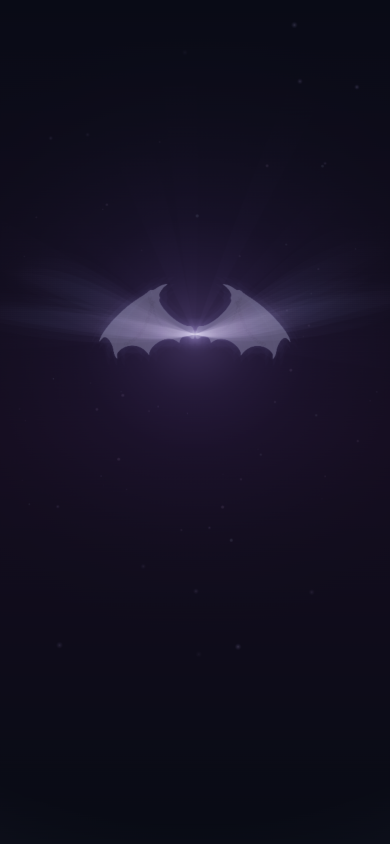
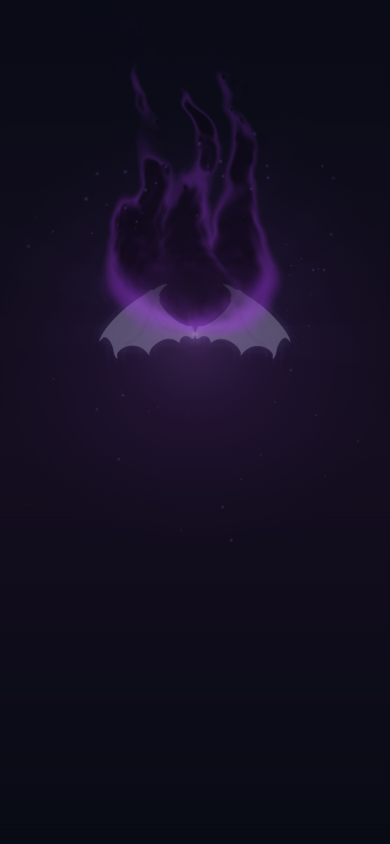
Update website

diff --git a/js/dark-awakening.js b/js/dark-awakening.js
@@ -1,102 +1,118 @@
-/* Dark awakening: a light-consuming core opens into the demon wing root.
- * Pure host-clock sampling keeps pause, hidden tabs and replay deterministic. */
+/* Dark opening: illuminated surroundings are consumed by an opaque core,
+ * then emit black-violet fire. All motion samples the host's active clock. */
 (function(root){
  'use strict';
  const TAU=Math.PI*2,clamp=v=>Math.max(0,Math.min(1,v));
  const smooth=v=>{v=clamp(v);return v*v*(3-2*v);};
  const seed=n=>{const v=Math.sin(n*127.1+83.7)*43758.5453;return v-Math.floor(v);};
+ let flameRenderer=null;
  function sample(elapsed){
   const time=Math.max(0,Number.isFinite(elapsed)?elapsed:0);
-  const charge=smooth(time/.45),opening=smooth((time-1.05)/.85);
-  const handoff=smooth((time-1.9)/.8),live=1-handoff;
-  return {time,charge,opening,handoff,live,
-   phase:time<.45?'暗核吞光':time<1.05?'闇流凝聚':time<1.9?'魔力覺醒':'魔翼顯現'};
+  const charge=smooth(time/.32),absorb=smooth((time-.30)/1.50);
+  const illumination=charge*(1-smooth((time-.50)/1.30));
+  const flame=smooth((time-1.90)/.38),handoff=smooth((time-2.7)/.8);
+  return {time,charge,absorb,illumination,flame,opening:flame,handoff,live:1-handoff,
+   phase:time<.32?'光霧浮現':time<1.90?'黑洞吞光':time<2.7?'黑焰迸發':'魔翼顯現'};
  }
+ function prepare(){
+  if(flameRenderer)return !flameRenderer.error;
+  if(!root.ElementMaterialRenderer||!root.ElementMaterialSources?.fire)return false;
+  // Reuse the approved volumetric flame, including its flowing tongue tips,
+  // gas-driven formation and rounded fuel bed. Only its emitted color changes.
+  root.ElementMaterialSources.darkAwakeningFlame=root.ElementMaterialSources.fire.replace('vec4 material(', 'vec4 flameVolume(')+
+   'vec4 material(vec2 p,float t){vec4 f=flameVolume(p,3.+t*2.5);float heat=clamp(max(f.r,max(f.g,f.b)),0.,1.);'+
+   'vec3 violet=mix(vec3(.12,.014,.27),vec3(.66,.22,.95),smoothstep(.10,.66,heat));'+
+   'float dense=smoothstep(.72,.96,heat);violet=mix(violet,vec3(.022,.008,.035),dense*.96);'+
+   'return vec4(violet,f.a);}';
+  flameRenderer=new root.ElementMaterialRenderer();flameRenderer.element='darkAwakeningFlame';
+  return flameRenderer.init()&&!!flameRenderer.compile('darkAwakeningFlame');
+ }
+ function dispose(){flameRenderer?.dispose();flameRenderer=null;}
  function glow(ctx,x,y,radius,stops,alpha=1){
   if(radius<=0||alpha<=0)return;
-  const gradient=ctx.createRadialGradient(x,y,0,x,y,radius);
-  for(const [at,color]of stops)gradient.addColorStop(at,color);
-  ctx.globalAlpha=alpha;ctx.fillStyle=gradient;
-  ctx.fillRect(x-radius,y-radius,radius*2,radius*2);
+  const g=ctx.createRadialGradient(x,y,0,x,y,radius);
+  for(const [at,color]of stops)g.addColorStop(at,color);
+  ctx.globalAlpha=Math.min(1,alpha);ctx.fillStyle=g;ctx.fillRect(x-radius,y-radius,radius*2,radius*2);
+ }
+ function infall(index,time,width,height,cx,cy,cloud=false){
+  const depth=seed(index+217),angle=index*2.399963+seed(index+46)*.3;
+  const start=.22+seed(index+81)*.68,duration=.52+seed(index+124)*.42;
+  const q=clamp((time-start)/duration),turn=q*q*(1.3+depth*.6);
+  const dx=Math.cos(angle)*width*(.44+depth*.40),dy=Math.sin(angle)*height*(.40+depth*.32);
+  const r=Math.hypot(dx,dy),base=Math.atan2(dy,dx),unit=Math.min(width,height);
+  const horizon=unit*.074,distance=horizon+r*Math.pow(1-q*q,.83);
+  return {x:cx+Math.cos(base+turn)*distance,y:cy+Math.sin(base+turn)*distance,
+   alpha:smooth(time/.24)*(1-smooth((q-.88)/.12)),q,depth,
+   size:cloud?unit*(.13+depth*.19):(.75+depth*2.5)*Math.max(.7,unit/390)};
  }
  function draw(ctx,{width,height,elapsed=0,target,layer='all'}={}){
   if(!ctx||!(width>0&&height>0))return;
   const s=sample(elapsed);if(s.live<=0)return;
   const unit=Math.min(width,height),cx=target?.x??width*.5,cy=target?.y??height*.4;
   const reach=Math.hypot(Math.max(cx,width-cx),Math.max(cy,height-cy));
-  const chargeLight=smooth((s.time-.18)/.7),pulse=1+Math.sin(s.time*11)*.045+Math.sin(s.time*19)*.025;
   ctx.save();ctx.globalCompositeOperation='source-over';
   if(layer!=='foreground'){
-   // Match the existing wing renderer's backdrop before it fades in. This
-   // prevents the portal from reappearing between two translucent layers.
    const bg=ctx.createLinearGradient(0,0,0,height);
    bg.addColorStop(0,'#090b16');bg.addColorStop(.52,'#150d20');bg.addColorStop(1,'#080b14');
-   ctx.globalAlpha=layer==='background'?1:smooth(s.time/.24);ctx.fillStyle=bg;ctx.fillRect(0,0,width,height);
-   glow(ctx,cx,cy,unit*(.32+.5*s.opening),[[0,'#58438188'],[.38,'#30245155'],[1,'#17112300']],(.45+chargeLight*.35)*(layer==='background'?1:s.live));
+   ctx.globalAlpha=layer==='background'?1:smooth(s.time/.20);ctx.fillStyle=bg;ctx.fillRect(0,0,width,height);
+   // The luminous atmosphere physically contracts, exposing dark space from
+   // the edges inward. The black core remains in front of the illuminated field.
+   const lightRadius=reach*(1.48-1.35*s.absorb);
+   glow(ctx,cx,cy,lightRadius,[[0,'#a2abc7e8'],[.34,'#858eaff0'],[.7,'#526580d0'],[1,'#263c5800']],s.illumination*.84);
+   ctx.globalCompositeOperation='screen';
+   for(let i=0;i<30;i++){
+    const p=infall(i+340,s.time,width,height,cx,cy,true);
+    glow(ctx,p.x,p.y,p.size*(1-p.q*.64),[[0,'#a5b5db45'],[.35,'#92a0c42c'],[1,'#5c6e9c00']],p.alpha*.72);
+   }
+   glow(ctx,cx,cy,unit*.54,[[0,'#7b379879'],[.4,'#54227834'],[1,'#25103a00']],s.flame*(layer==='background'?1:s.live));
   }
   if(layer==='background'){ctx.restore();return;}
-  // A compact, soft void rather than a drawn circle or a seal. Separate
-  // lobes of reflected purple light move around its uneven silhouette.
-  const coreRadius=unit*(.022+.036*s.charge)*(1-.58*s.opening);
+  // Heads accelerate along a curved path; their tails sample earlier points
+  // on that same path. They disappear into the horizon, with no looping reset.
   ctx.globalCompositeOperation='screen';
-  for(let i=0;i<7;i++){
-   const angle=i*TAU/7+s.time*(.27+seed(i)*.5),r=coreRadius*(1.2+seed(i+11)*.5);
-   glow(ctx,cx+Math.cos(angle)*r,cy+Math.sin(angle)*r*.78,coreRadius*(1.5+seed(i+34)),
-    [[0,'#8e71cd55'],[.3,'#5747a138'],[1,'#3f397c00']],chargeLight*(1-s.opening)*s.live);
-  }
-  ctx.globalCompositeOperation='source-over';
-  glow(ctx,cx,cy,coreRadius*2.3,[[0,'#02030aff'],[.35,'#03040df5'],[.65,'#050611aa'],[1,'#05061100']],s.charge*(1-s.opening)*s.live);
-  // Curved volumes inhale tangentially. At release, the same continuous
-  // paths stretch into two broad shoulders in the direction of the wings.
-  for(let i=0;i<12;i++){
-   const side=i%2?-1:1,k=seed(i+52),rise=seed(i+77),gate=smooth((s.time-.24-k*.18)/.4)*s.live;
-   if(gate<=0)continue;
-   const turn=s.time*(.8+k*.4)+i*.43;
-   const span=unit*(.12+k*.18+s.opening*(.28+k*.2));
-   const endX=side*span,endY=-unit*(.02+rise*.21)*(.6+s.opening*.4);
-   const curl=unit*(.025+.055*Math.sin(turn))*(1-s.opening);
-   const breadth=unit*(.008+rise*.016)*(1+s.opening*1.6);
-   ctx.save();ctx.translate(cx,cy);ctx.globalCompositeOperation='screen';
-   const g=ctx.createLinearGradient(0,0,endX,endY);
-   g.addColorStop(0,'#d5c7ff70');g.addColorStop(.2,'#8b75b94a');g.addColorStop(.62,'#50639126');g.addColorStop(1,'#6c598a00');
-   ctx.fillStyle=g;
-   for(const [spread,opacity]of [[3.2,.16],[1.6,.23],[.7,.24]]){
-    const b=breadth*spread;ctx.globalAlpha=gate*opacity*(.7+.3*Math.sin(turn*.8)**2);
-    ctx.beginPath();ctx.moveTo(0,0);
-    ctx.bezierCurveTo(side*span*.25,-unit*.04-curl,side*span*.64,endY-b,endX,endY);
-    ctx.bezierCurveTo(side*span*.68,endY+b,side*span*.2,unit*.04+curl,0,0);ctx.fill();
+  for(let i=0;i<172;i++){
+   const p=infall(i,s.time,width,height,cx,cy);if(p.alpha<.003)continue;
+   const tail=infall(i,Math.max(0,s.time-.04-p.depth*.035),width,height,cx,cy);
+   if(p.q>0){
+    const g=ctx.createLinearGradient(tail.x,tail.y,p.x,p.y);
+    g.addColorStop(0,'#aabde900');g.addColorStop(1,'#e3eaffce');
+    ctx.globalAlpha=p.alpha*(.42+p.depth*.35);ctx.strokeStyle=g;ctx.lineWidth=Math.max(.55,p.size*.7);ctx.lineCap='round';
+    ctx.beginPath();ctx.moveTo(tail.x,tail.y);ctx.lineTo(p.x,p.y);ctx.stroke();
    }
-   ctx.restore();
+   glow(ctx,p.x,p.y,p.size*3.1,[[0,'#eff1fff0'],[.12,'#cbd7ffdc'],[.4,'#9bade954'],[1,'#7d93d000']],p.alpha);
   }
+  const consumed=smooth((s.time-1.74)/.22),hole=s.charge*(1-consumed);
+  const radius=unit*(.038+.050*s.charge)*(1-.40*smooth((s.time-1.60)/.30));
+  if(hole>0){
+   // Shredded accretion light, never a white light source at the center.
+   glow(ctx,cx,cy,radius*3.3,[[0,'#7465a000'],[.24,'#a996e480'],[.45,'#6c70b63c'],[1,'#45477c00']],hole*.9);
+   for(let i=0;i<11;i++){
+    const spin=s.time*(1.6+seed(i+9)*1.4),angle=i*TAU/11+spin;
+    const rr=radius*(1.13+seed(i+15)*.48),x=cx+Math.cos(angle)*rr,y=cy+Math.sin(angle)*rr*.72;
+    ctx.save();ctx.translate(x,y);ctx.rotate(angle+Math.PI/2);ctx.scale(1.7,.6);
+    glow(ctx,0,0,radius*.46,[[0,'#d5ccf49a'],[.3,'#9f94cf60'],[1,'#62609b00']],hole*.78);ctx.restore();
+   }
+   ctx.globalCompositeOperation='source-over';
+   glow(ctx,cx,cy,radius*1.18,[[0,'#010108ff'],[.74,'#010108ff'],[.89,'#02020cf5'],[1,'#03030b00']],hole);
+  }
+  if(s.flame>0&&prepare()){
+   // Fuel ignites at the former black-hole center. The flame's native
+   // formation grows gas from this fixed root rather than zooming a bitmap.
+   const w=unit*1.22,h=w*1.23,box={x:cx-w/2,y:cy-h/2-w*.33,width:w,height:h};
+   flameRenderer.draw(ctx,ctx.canvas,width,height,{box,time:s.time-1.9,
+    formation:s.flame,phase:.5,opacity:s.live});
+  }
+  // Cooling fragments peel off after ignition, with independent rising speed.
   ctx.globalCompositeOperation='screen';
-  // Opening pulse has a broad feathered edge; it crosses the frame once.
-  const wave=clamp((s.time-1.14)/1.25);
-  if(wave>0&&wave<1){
-   const radius=unit*.04+reach*(1-(1-wave)**2),band=unit*(.07+.12*wave);
-   const g=ctx.createRadialGradient(cx,cy,Math.max(0,radius-band),cx,cy,radius+band);
-   g.addColorStop(0,'#887ac500');g.addColorStop(.45,'#a390e541');g.addColorStop(.62,'#8b7ecc24');g.addColorStop(1,'#7362b800');
-   ctx.globalAlpha=Math.sin(wave*Math.PI)*s.live;ctx.fillStyle=g;ctx.fillRect(0,0,width,height);
+  for(let i=0;i<30;i++){
+   const age=s.time-1.97-seed(i+80)*.32;if(age<0||age>1.35)continue;
+   const depth=seed(i+91),angle=-Math.PI/2+(seed(i+120)-.5)*2.3;
+   const r=unit*(.08+age*(.22+depth*.22));
+   const x=cx+Math.cos(angle)*r+Math.sin(age*5+i)*unit*.016,y=cy+Math.sin(angle)*r;
+   glow(ctx,x,y,(1+depth*2.3)*Math.max(.7,unit/390),[[0,'#c3a0f1cc'],[.25,'#9658ce88'],[1,'#5b238d00']],Math.sin(age/1.35*Math.PI)*s.live*.8);
   }
-  // Suspended dust spirals inward, then takes unequal curved outward paths.
-  // Near fragments are softer/larger; none reveal the eventual rank.
-  for(let i=0;i<52;i++){
-   const depth=seed(i+201),birth=seed(i+234)*.24,phase=(s.time*.48+seed(i+298))%1;
-   const angle=i*2.399963+s.time*(.24+depth*.4);
-   const inward=unit*(.025+(1-phase)*(.18+depth*.28));
-   const out=unit*(.06+Math.max(0,s.time-1.05-birth)*(.38+depth*.6));
-   const radius=inward*(1-s.opening)+out*s.opening;
-   const x=cx+Math.cos(angle)*radius,y=cy+Math.sin(angle)*radius*.72;
-   const alpha=Math.sin(phase*Math.PI)*(.24+depth*.42)*chargeLight*s.live;
-   glow(ctx,x,y,(1.1+depth*2.7)*Math.max(.7,unit/390),[[0,'#d3cbf2d0'],[.24,'#a998d790'],[1,'#7264ac00']],alpha);
-  }
-  // The inner slit lengthens before unfurling sideways. Its white-violet
-  // center becomes the existing material's wing-root light during FORM.
-  const fissure=smooth((s.time-.42)/.5)*(1-s.handoff);
-  ctx.save();ctx.translate(cx,cy);ctx.scale(.24+s.opening*1.6,1-s.opening*.6);
-  glow(ctx,0,0,unit*(.04+chargeLight*.07)*pulse,[[0,'#e8dcfff0'],[.07,'#b3a5efb0'],[.3,'#6653a84a'],[1,'#30205100']],fissure*.9);ctx.restore();
-  glow(ctx,cx,cy,unit*(.1+.20*s.opening),[[0,'#c8b7fa80'],[.14,'#927cd13a'],[.5,'#5b478d19'],[1,'#46347900']],chargeLight*s.live*pulse);
-  glow(ctx,cx,cy,unit*(.009+s.opening*.015),[[0,'#f0e9ffed'],[.15,'#baa6f4b0'],[.5,'#7664c150'],[1,'#594b9400']],fissure*s.live);
   ctx.restore();
  }
- root.DarkAwakening=Object.freeze({sample,draw,duration:1.9,totalDuration:2.7});
+ root.DarkAwakening=Object.freeze({sample,draw,infall,prepare,dispose,duration:2.7,totalDuration:3.5,
+  get error(){return flameRenderer?.error||'';},get lost(){return flameRenderer?.lost||false;}});
 })(globalThis);

diff --git a/index.html b/index.html
@@ -827,7 +827,7 @@
       <div id="pwaStatus" class="sumNote" role="status">正在確認離線狀態…</div>
       <div class="updateActions">
         <button id="checkUpdate" type="button" class="btn btnGhost">檢查更新</button>
-        <span id="appVersion" data-version="133" title="目前載入頁面的版本">目前版本 v133</span>
+        <span id="appVersion" data-version="134" title="目前載入頁面的版本">目前版本 v134</span>
       </div>
     </div>
     </div>
@@ -1288,7 +1288,7 @@
     windTornado?.dispose();windTornado=null;
     earthMountain?.dispose();earthMountain=null;
     lightAngel?.dispose();lightAngel=null;
-    darkDemon?.dispose();darkDemon=null;
+    darkDemon?.dispose();darkDemon=null;DarkAwakening.dispose();
     revealTitle.classList.remove('windRankTitle','earthRankTitle','lightAngelTitle','darkDemonTitle');
     materialControls.classList.remove('earthPreviewControls','lightPreviewControls','darkPreviewControls');
     flowPreview=false;formalReveal=false;formalReplay.hidden=true;revealTitle.hidden=true;
@@ -1460,7 +1460,7 @@
   }
   function previewMaterialBlocked(){
     const active=activeMaterialRenderer();
-    return active.lost||active.error||((usesOceanPreview()||usesLightMaterial()||usesDarkMaterial())&&!active.loaded)
+    return active.lost||active.error||(usesDarkMaterial()&&flow?.awakeningEnabled&&(DarkAwakening.lost||DarkAwakening.error))||((usesOceanPreview()||usesLightMaterial()||usesDarkMaterial())&&!active.loaded)
       ||(usesLightMaterial()&&(!LightFeathers.loaded||LightFeathers.error));
   }
   function drawPreviewMaterial(w,h,frame=null){
@@ -1495,7 +1495,7 @@
     return active.draw(ctx,canvas,w,h,frame);
   }
   function updateMaterialError(){
-    const active=activeMaterialRenderer(),featherError=usesLightMaterial()?LightFeathers.error:'',
+    const active=activeMaterialRenderer(),featherError=usesLightMaterial()?LightFeathers.error:usesDarkMaterial()&&flow?.awakeningEnabled?DarkAwakening.error:'',
       loading=((usesOceanPreview()||usesLightMaterial()||usesDarkMaterial())&&!active.loaded&&!active.error)||(usesLightMaterial()&&!LightFeathers.loaded&&!featherError);
     const restoring=(usesEarthMaterial()||usesLightMaterial()||usesDarkMaterial())&&active.lost;
     materialError.hidden=!(active.error||featherError||loading||restoring);
@@ -1582,6 +1582,7 @@
     gather.capture(flowPortal.trails,flowPortal.width,flowPortal.height);
     // A muggle has no element. Do not substitute the renderer's last selection.
     if(element!==null){
+      if(element==='dark'&&flow.awakeningEnabled)DarkAwakening.prepare();
       materialRenderer.select(element);
       if(usesOceanPreview()||usesWindMaterial()||usesEarthMaterial()||usesLightMaterial()||usesDarkMaterial())activeMaterialRenderer();
       else if(materialRenderer.init())materialRenderer.compile(element);

diff --git a/js/reveal-flow.js b/js/reveal-flow.js
@@ -27,9 +27,9 @@
     get ready(){return this.distance>=24;}
     get gatherDuration(){return this._gatherDuration;}
     get awakeningEnabled(){return (this.lightAwakening&&this.element==='light')||(this.darkAwakening&&this.element==='dark');}
-    get awakeningDuration(){return this.awakeningEnabled?DURATIONS.AWAKEN:0;}
+    get awakeningDuration(){return this.awakeningEnabled?(this.element==='dark'?2.7:DURATIONS.AWAKEN):0;}
     get formationDuration(){return this.awakeningEnabled&&this.element==='light' ? .6 : this.element==='fire'||this.element==='water'?1.2:DURATIONS.FORM;}
-    get duration(){return this.state==='GATHER'?this.gatherDuration:this.state==='FORM'?this.formationDuration:DURATIONS[this.state];}
+    get duration(){if(this.state==='AWAKEN')return this.awakeningDuration;return this.state==='GATHER'?this.gatherDuration:this.state==='FORM'?this.formationDuration:DURATIONS[this.state];}
     get progress(){
       if(this.state==='DONE')return 1;
       return this.duration?clamp(this.elapsed/this.duration):0;

diff --git a/service-worker.js b/service-worker.js
@@ -1,4 +1,4 @@
-const CACHE_NAME = "mana-pwa-v3-portal-133";
+const CACHE_NAME = "mana-pwa-v3-portal-134";
 const ASSETS = [
   "./",
   "./index.html",

diff --git a/DARK-AWAKENING.md b/DARK-AWAKENING.md
@@ -14,3 +14,11 @@ A、S、SS 共用相同開場，不提前顯示數值或階級，不改變已抽
 驗證：dark-awakening-flow.cjs、dark-awakening-browser.cjs、light-awakening-flow.cjs、reveal-flow.cjs、light-awakening-audio.cjs、stage6.cjs；瀏覽器檢查包括真實筆畫輸入、形成前無翅膀及讀值、凍結結果不變、999 SS 終點、暫停／背景分頁／重播和三種畫幅。另以 dark-formal-offline-browser.cjs 驗證網站快取及離線素材，以 light-awakening-browser.cjs 回歸光屬流程。
 
 自動化以桌面 Chromium 執行，實際手機觀感與效能仍需裝置確認。
+
+## v134 黑洞吞光與黑紫魔焰
+
+依使用者回饋重做前奏：0–0.32 秒浮現冷灰藍光霧，0.32–1.90 秒光霧與 172 顆不同深度的光點從周圍加速旋入中央黑洞，外側逐漸暗下。1.90–2.70 秒由原位置點燃黑紫魔焰，再以既有 0.8 秒 FORM 接回魔翼。光屬與基本屬性時序維持不變。
+
+光點取樣單次吸入軌跡，尾跡沿同一條路徑，不做循環重生；中央是不透光的暗核，反光只在周圍。魔焰沿用現有體積火焰的生長、翻騰、火舌及圓弧燃料體，以黑色高密度內焰和紫色外焰呈現，沒有新增圖像資產。繪圖器在進入闇屬流程時準備、離開時釋放，暫停與 WebGL 恢復沿用既有機制。
+
+三種畫幅的實際畫布檢查包括：照亮與吞噬後的亮度差、吸入期間持續運動、魔焰階段不提前顯示翅膀、不可變的 SS999 結果、背景分頁與重播；網站離線檢查涵蓋黑紫火焰 shader。
